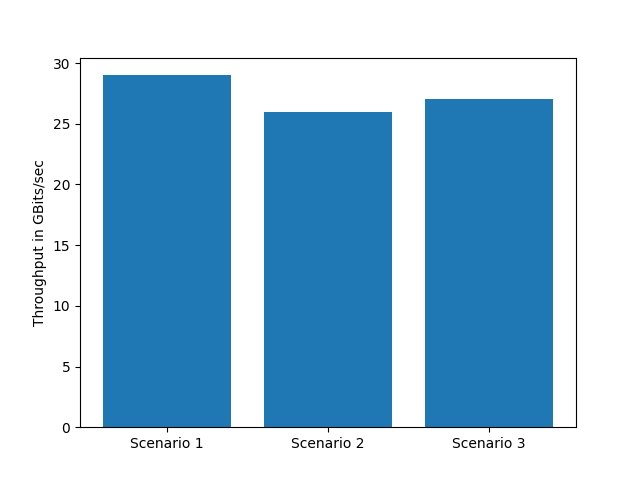
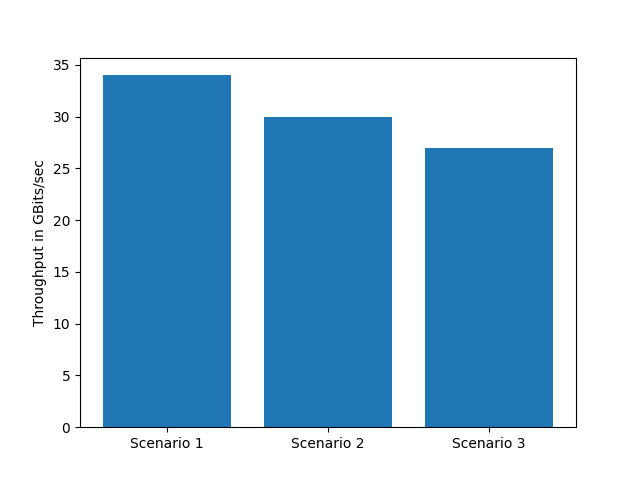
add ping

diff --git a/lab3/performance_test.py b/lab3/performance_test.py
@@ -12,27 +12,47 @@ def get_mean(result):
         ret += int(re.search(r'\d+', res).group())
     return ret/len(result)
 
-def plot_fig(values, controller, ylabel):
-    x = [1,2,3]
-    labels = ["Scenario 1", "Scenario 2", "Scenario 3"]
-    plt.bar(x, values)
-    plt.xticks(x, labels)
-    plt.ylabel(ylabel)
-    plt.savefig('fig_throughput_' + str(controller) + '.png')
-
+def get_avg_rtt(ping_output):
+    return re.search("rtt min/avg/max/mdev = (\d+.\d+)/(\d+.\d+)/(\d+.\d+)/(\d+.\d+)", str(ping_output)).group(2)
 
 def performanceTest(net):
     h0, h1, h2, h4 = net.get('host0', 'host1', 'host2', 'host4')
-    print("Testing throughput")
     time = 20
+
+    print(h0.IP())
+    print(h1.IP())
+
+    print("Testing throughput")
     perf1 = get_mean(net.iperf((h0, h1), seconds=time))
     perf2 = get_mean(net.iperf((h0, h2), seconds=time))
     perf3 = get_mean(net.iperf((h0, h4), seconds=time))
     result1 = [perf1, perf2, perf3]
 
-    controller = "sp" #change
+    print("Testing latency")
+    ping1 = h0.cmd('ping', '-c20', h1.IP())
+    ping2 = h0.cmd('ping', '-c20', h2.IP())
+    ping3 = h0.cmd('ping', '-c20', h4.IP())
+    result2 = [get_avg_rtt(ping1), get_avg_rtt(ping2), get_avg_rtt(ping3)]
 
-    plot_fig(result1, controller, "Throughput in GBits/sec")
+    controller = "ft" #change
+    ylabel1 = "Throughput in GBits/sec"
+    ylabel2 = "AVG RTT in ms"
+    x = [1,2,3]
+    labels = ["Scenario 1", "Scenario 2", "Scenario 3"]
+
+    f1 = plt.figure()
+    plt.bar(x, result1)
+    plt.xticks(x, labels)
+    plt.ylabel(ylabel1)
+    plt.savefig('fig_throughput_' + str(controller) + '.png')
+
+    plt.clf()
+
+    f2 = plt.figure()
+    plt.bar(x, result2)
+    plt.xticks(x, labels)
+    plt.ylabel(ylabel2)
+    plt.savefig('fig_rtt_' + str(controller) + '.png')
 
     
 if __name__ == "__main__":

diff --git a/lab3/fat_tree.py b/lab3/fat_tree.py
@@ -122,7 +122,6 @@ def run(graph_topo):
     net.stop()
 
 
-
 if __name__ == "__main__":
     ft_topo = topo.Fattree(4)
     run(ft_topo)

diff --git a/lab3/topo.py b/lab3/topo.py
@@ -15,7 +15,7 @@
 
 import random
 import queue
-import matplotlib.pyplot as plt
+#import matplotlib.pyplot as plt
 import math
 
 
